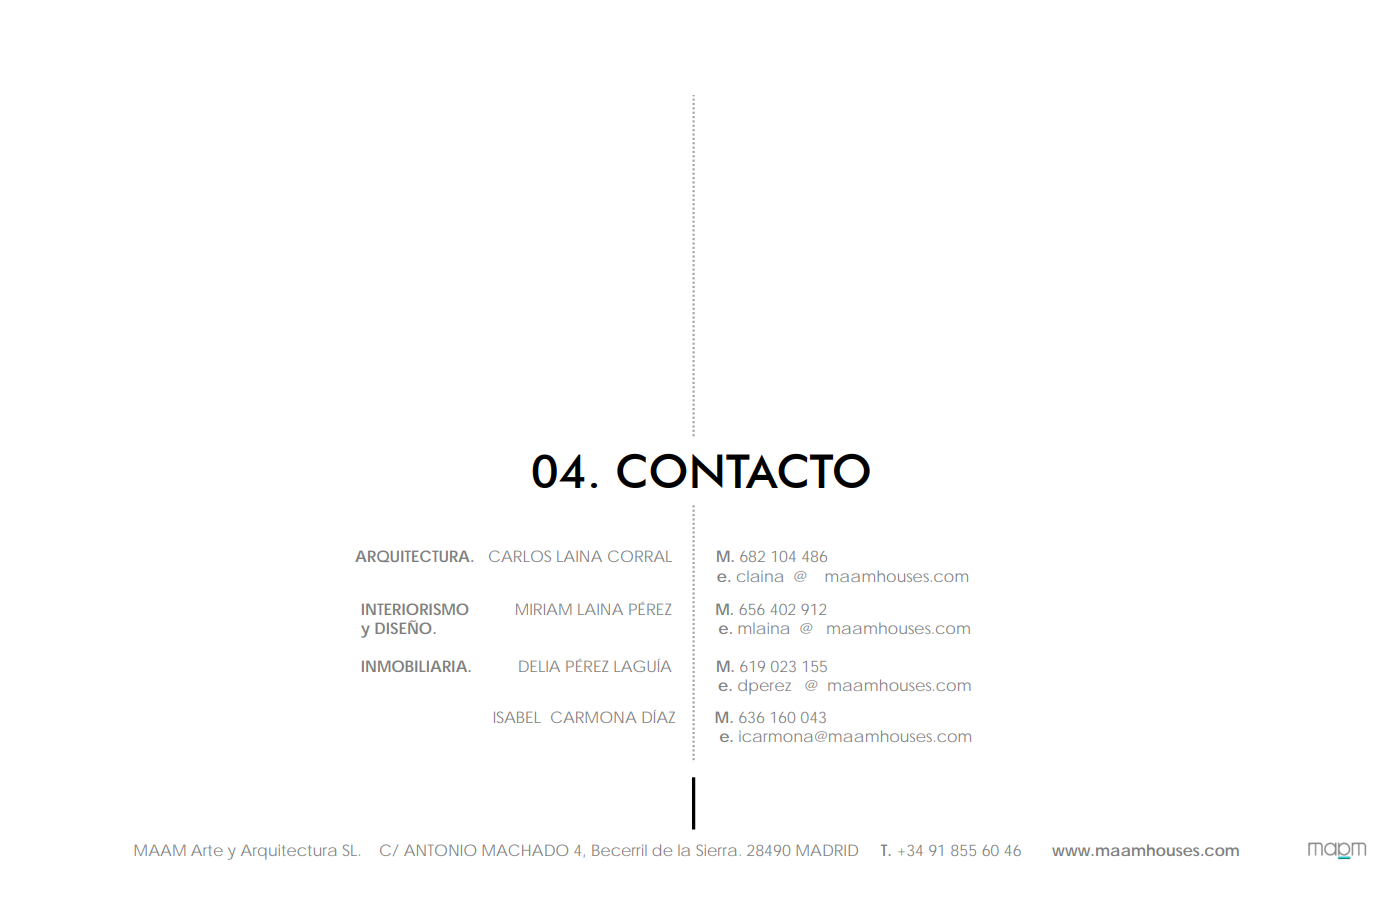
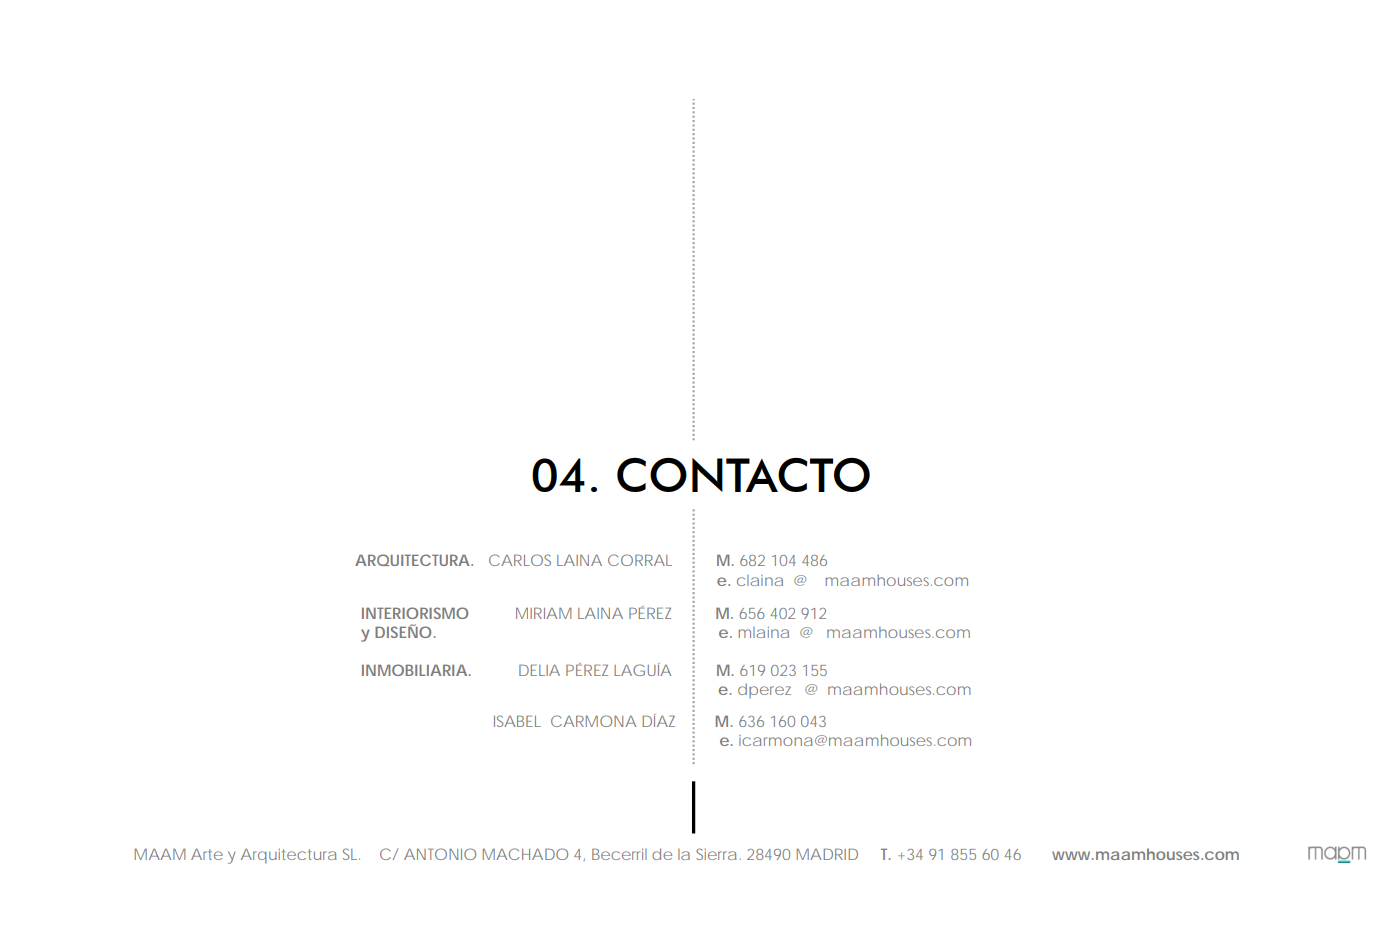
contacto

diff --git a/app/pages/maam/support.js b/app/pages/maam/support.js
@@ -14,6 +14,7 @@ import arquitectura from "../../../public/images/maam-init/arquitectura.png";
 import arquitectura2 from "../../../public/images/maam-init/arquitectura2.png";
 import inmobiliaria from "../../../public/images/maam-init/inmobiliaria.png";
 import interiorismo from "../../../public/images/maam-init/interiorismo.png";
+import contacto from "../../../public/images/maam-init/contacto.png";
 import Link from "@material-ui/core/Link";
 
 
@@ -52,6 +53,9 @@ const useStyles = makeStyles((theme) => ({
     },
     images: {
         width: "90%"
+    },
+    contacto: {
+        width: "30%"
     }
 }));
 
@@ -92,71 +96,75 @@ export default function support() {
                     <img className={classes.images} src={interiorismo}/>
                 </Grid>
                 <Grid item xs={12} align={"center"}>
-                     <Typography variant="h5">
-                         <b>Arquitectura</b>
-                     </Typography>
-                     <Typography variant="h6">
-                         Carlos Laina
-                     </Typography>
-                     <Typography variant="h6">
-                         <Link href="mailto:claina@maamhouses.com">
-                            claina@maamhouses.com
-                         </Link>
-                     </Typography>
-                     <Typography variant="h6">
-                         <Link href="tel:682104486">
-                            682104486
-                         </Link>
-                     </Typography>
-                     <Box m={2}/>
-                     <Typography variant="h5">
-                         <b>Arquitectura de Interiores</b>
-                     </Typography>
-                     <Typography variant="h6">
-                         Miriam Laina
-                     </Typography>
-                     <Typography variant="h6">
-                         <Link href="mailto:mlaina@maamhouses.com">
-                            mlaina@maamhouses.com
-                         </Link>
-                     </Typography>
-                     <Typography variant="h6">
-                         <Link href="tel:656402912">
-                            656402912
-                         </Link>
-                     </Typography>
-                     <Box m={2}/>
-                     <Typography variant="h5">
-                         <b>Inmobiliaria</b>
-                     </Typography>
-                     <Typography variant="h6">
-                         Delia Pérez
-                     </Typography>
-                    <Typography variant="h6">
-                        <Link href="mailto:dperez@maamhouses.com">
-                            dperez@maamhouses.com
-                        </Link>
-                    </Typography>
-                    <Typography variant="h6">
-                        <Link href="tel:619023155">
-                            619023155
-                        </Link>
-                    </Typography>
-                     <Typography variant="h6">
-                         Isabel Carmona
-                     </Typography>
-                     <Typography variant="h6">
-                         <Link href="mailto:icarmona@maamhouses.com">
-                            icarmona@maamhouses.com
-                         </Link>
-                     </Typography>
-                     <Typography variant="h6">
-                         <Link href="tel:636160043">
-                            636160043
-                         </Link>
-                     </Typography>
-                    <Box m={2}/>
+                    <img className={classes.images} src={contacto}/>
                 </Grid>
+                {/*<Grid item xs={12} align={"center"}>*/}
+                {/*    <box m={2}/>*/}
+                {/*     <Typography variant="h5">*/}
+                {/*         <b>Arquitectura</b>*/}
+                {/*     </Typography>*/}
+                {/*     <Typography variant="h6">*/}
+                {/*         Carlos Laina*/}
+                {/*     </Typography>*/}
+                {/*     <Typography variant="h6">*/}
+                {/*         <Link href="mailto:claina@maamhouses.com">*/}
+                {/*            claina@maamhouses.com*/}
+                {/*         </Link>*/}
+                {/*     </Typography>*/}
+                {/*     <Typography variant="h6">*/}
+                {/*         <Link href="tel:682104486">*/}
+                {/*            682104486*/}
+                {/*         </Link>*/}
+                {/*     </Typography>*/}
+                {/*     <Box m={2}/>*/}
+                {/*     <Typography variant="h5">*/}
+                {/*         <b>Arquitectura de Interiores</b>*/}
+                {/*     </Typography>*/}
+                {/*     <Typography variant="h6">*/}
+                {/*         Miriam Laina*/}
+                {/*     </Typography>*/}
+                {/*     <Typography variant="h6">*/}
+                {/*         <Link href="mailto:mlaina@maamhouses.com">*/}
+                {/*            mlaina@maamhouses.com*/}
+                {/*         </Link>*/}
+                {/*     </Typography>*/}
+                {/*     <Typography variant="h6">*/}
+                {/*         <Link href="tel:656402912">*/}
+                {/*            656402912*/}
+                {/*         </Link>*/}
+                {/*     </Typography>*/}
+                {/*     <Box m={2}/>*/}
+                {/*     <Typography variant="h5">*/}
+                {/*         <b>Inmobiliaria</b>*/}
+                {/*     </Typography>*/}
+                {/*     <Typography variant="h6">*/}
+                {/*         Delia Pérez*/}
+                {/*     </Typography>*/}
+                {/*    <Typography variant="h6">*/}
+                {/*        <Link href="mailto:dperez@maamhouses.com">*/}
+                {/*            dperez@maamhouses.com*/}
+                {/*        </Link>*/}
+                {/*    </Typography>*/}
+                {/*    <Typography variant="h6">*/}
+                {/*        <Link href="tel:619023155">*/}
+                {/*            619023155*/}
+                {/*        </Link>*/}
+                {/*    </Typography>*/}
+                {/*     <Typography variant="h6">*/}
+                {/*         Isabel Carmona*/}
+                {/*     </Typography>*/}
+                {/*     <Typography variant="h6">*/}
+                {/*         <Link href="mailto:icarmona@maamhouses.com">*/}
+                {/*            icarmona@maamhouses.com*/}
+                {/*         </Link>*/}
+                {/*     </Typography>*/}
+                {/*     <Typography variant="h6">*/}
+                {/*         <Link href="tel:636160043">*/}
+                {/*            636160043*/}
+                {/*         </Link>*/}
+                {/*     </Typography>*/}
+                {/*    <Box m={2}/>*/}
+                {/*</Grid>*/}
             </Grid>
         </Fondo>
     );
